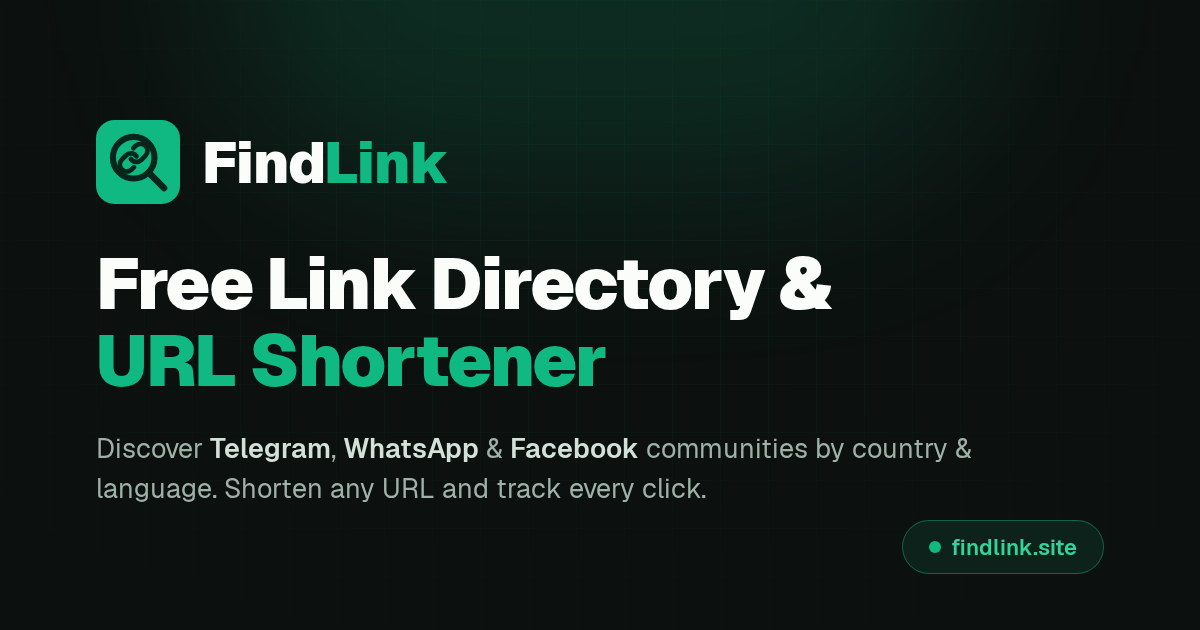
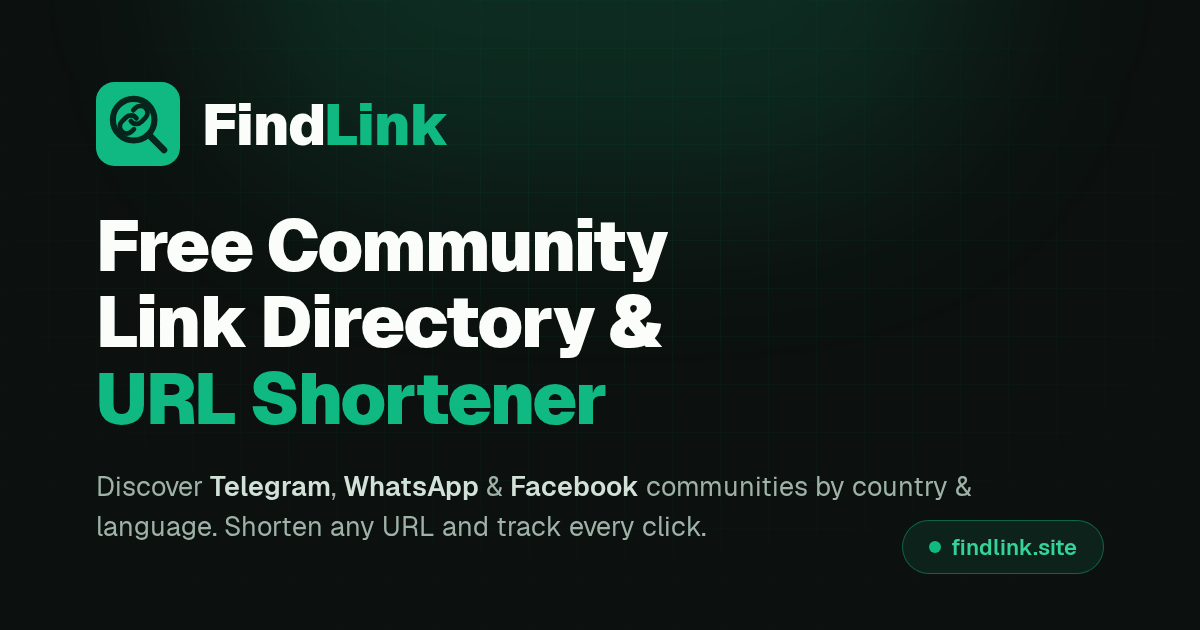
seo optimize

Changed region(s): [[0.0617, 0.1206, 0.8325, 0.8746]]

diff --git a/src/app/page.tsx b/src/app/page.tsx
@@ -352,10 +352,10 @@ export default async function HomePage() {
                   <>
                     <p>
                       A community directory is an organized, searchable listing of online
-                      communities — Telegram channels, WhatsApp groups, Discord servers,
-                      Facebook pages and more — grouped by category, country and language.
-                      Instead of hunting through search results or forwarded links, you browse
-                      one curated place and join straight from the listing.
+                      communities. Listings cover Telegram channels, WhatsApp groups, Discord
+                      servers, Facebook pages and more, each grouped by category, country and
+                      language. Instead of hunting through search results or forwarded links,
+                      you browse one curated place and join straight from the listing.
                     </p>
                     <p>
                       FindLink works exactly this way: every submission is email-verified and
@@ -501,6 +501,94 @@ export default async function HomePage() {
                 <h3 className="text-base font-semibold">{guide.title}</h3>
                 <div className="mt-2 space-y-2 text-sm leading-relaxed text-muted-foreground">
                   {guide.body}
+                </div>
+              </article>
+            ))}
+          </div>
+        </div>
+      </section>
+
+      {/* --------------------------- FAQ (PAA-style) --------------------------- */}
+      <section className="border-t border-border/40">
+        <div className="mx-auto max-w-7xl px-4 py-16 sm:px-6 lg:px-8">
+          <div className="mx-auto max-w-2xl text-center">
+            <h2 className="text-2xl font-bold tracking-tight sm:text-3xl">
+              Frequently Asked Questions
+            </h2>
+            <p className="mt-3 text-sm text-muted-foreground sm:text-base">
+              Quick answers about the free URL shortener, the directory and click
+              analytics.
+            </p>
+          </div>
+
+          <div className="mt-12 grid gap-4 sm:grid-cols-2">
+            {[
+              {
+                title: "Is FindLink a free URL shortener?",
+                body: (
+                  <p>
+                    Yes. FindLink is a free URL shortener with click analytics built in.
+                    Every short link tracks country, device, browser, operating system and
+                    referrer for each click. Free accounts get tracked short links with
+                    full analytics — premium simply lifts the limit. Paste any URL in the
+                    form at the top of this page to try it.
+                  </p>
+                ),
+              },
+              {
+                title: "Can I create custom short links?",
+                body: (
+                  <p>
+                    Yes. FindLink works as a custom URL shortener. When you shorten a URL,
+                    you can claim your own memorable alias instead of a random code. You
+                    can manage, pause or redirect your short links anytime from the
+                    dashboard.
+                  </p>
+                ),
+              },
+              {
+                title: "How do I list my community in the directory?",
+                body: (
+                  <p>
+                    <Link
+                      href="/register"
+                      className="font-medium text-primary underline-offset-2 hover:underline"
+                    >
+                      Create a free account
+                    </Link>{" "}
+                    and verify your email. Then submit your Telegram channel, WhatsApp
+                    group, Facebook page or any other community with a title, description,
+                    category, country and language. A moderator reviews every submission.
+                    Approved listings go live on their own shareable page with live click
+                    stats.
+                  </p>
+                ),
+              },
+              {
+                title: "Which platforms does the directory cover?",
+                body: (
+                  <p>
+                    Fifteen platforms, each with its own{" "}
+                    <Link
+                      href="/explore"
+                      className="font-medium text-primary underline-offset-2 hover:underline"
+                    >
+                      directory page
+                    </Link>
+                    : Telegram, WhatsApp, Facebook, YouTube, Discord, X, Instagram, Reddit,
+                    TikTok, LinkedIn, Snapchat, Twitch, Pinterest, Signal and more. Filter
+                    any platform by category, country and language.
+                  </p>
+                ),
+              },
+            ].map((faq) => (
+              <article
+                key={faq.title}
+                className="rounded-2xl border border-border/60 bg-card p-6"
+              >
+                <h3 className="text-base font-semibold">{faq.title}</h3>
+                <div className="mt-2 text-sm leading-relaxed text-muted-foreground">
+                  {faq.body}
                 </div>
               </article>
             ))}

diff --git a/src/lib/seo.ts b/src/lib/seo.ts
@@ -18,12 +18,15 @@ export const SITE_NAME = "FindLink"
 
 export const SITE_TAGLINE = "Find, share & shorten links"
 
-/** Homepage <title> — 46 chars: primary keywords + Free + brand last (never truncates in SERPs). */
+/** Homepage <title> — 56 chars (50–60 sweet spot): Free + community + link
+ * directory + URL shortener, brand last (never truncates in SERPs). */
 export const HOME_TITLE =
-  "Free Link Directory & URL Shortener | FindLink"
+  "Free Community Link Directory & URL Shortener | FindLink"
 
+/** 129 chars (100–130 range) — mirrors the title keywords, names the three
+ * flagship platforms and carries the click-analytics differentiator. */
 export const SITE_DESCRIPTION =
-  "Free community directory & URL shortener. Discover Telegram, WhatsApp & Facebook groups by country & language. Shorten URLs with click analytics."
+  "Free link directory & URL shortener. Discover Telegram, WhatsApp & Facebook groups by country. Shorten URLs with click analytics."
 
 /** Default social card (1200x630, generated by scripts/generate-og-image.mjs). */
 export const OG_IMAGE_PATH = "/og-image.png"

diff --git a/src/app/layout.tsx b/src/app/layout.tsx
@@ -83,7 +83,7 @@ export const metadata: Metadata = {
     url: "/",
     siteName: "FindLink",
     type: "website",
-    images: [{ url: OG_IMAGE_PATH, width: 1200, height: 630, alt: "FindLink — free link directory & URL shortener" }],
+    images: [{ url: OG_IMAGE_PATH, width: 1200, height: 630, alt: "FindLink — free community link directory & URL shortener" }],
   },
   twitter: {
     card: "summary_large_image",
